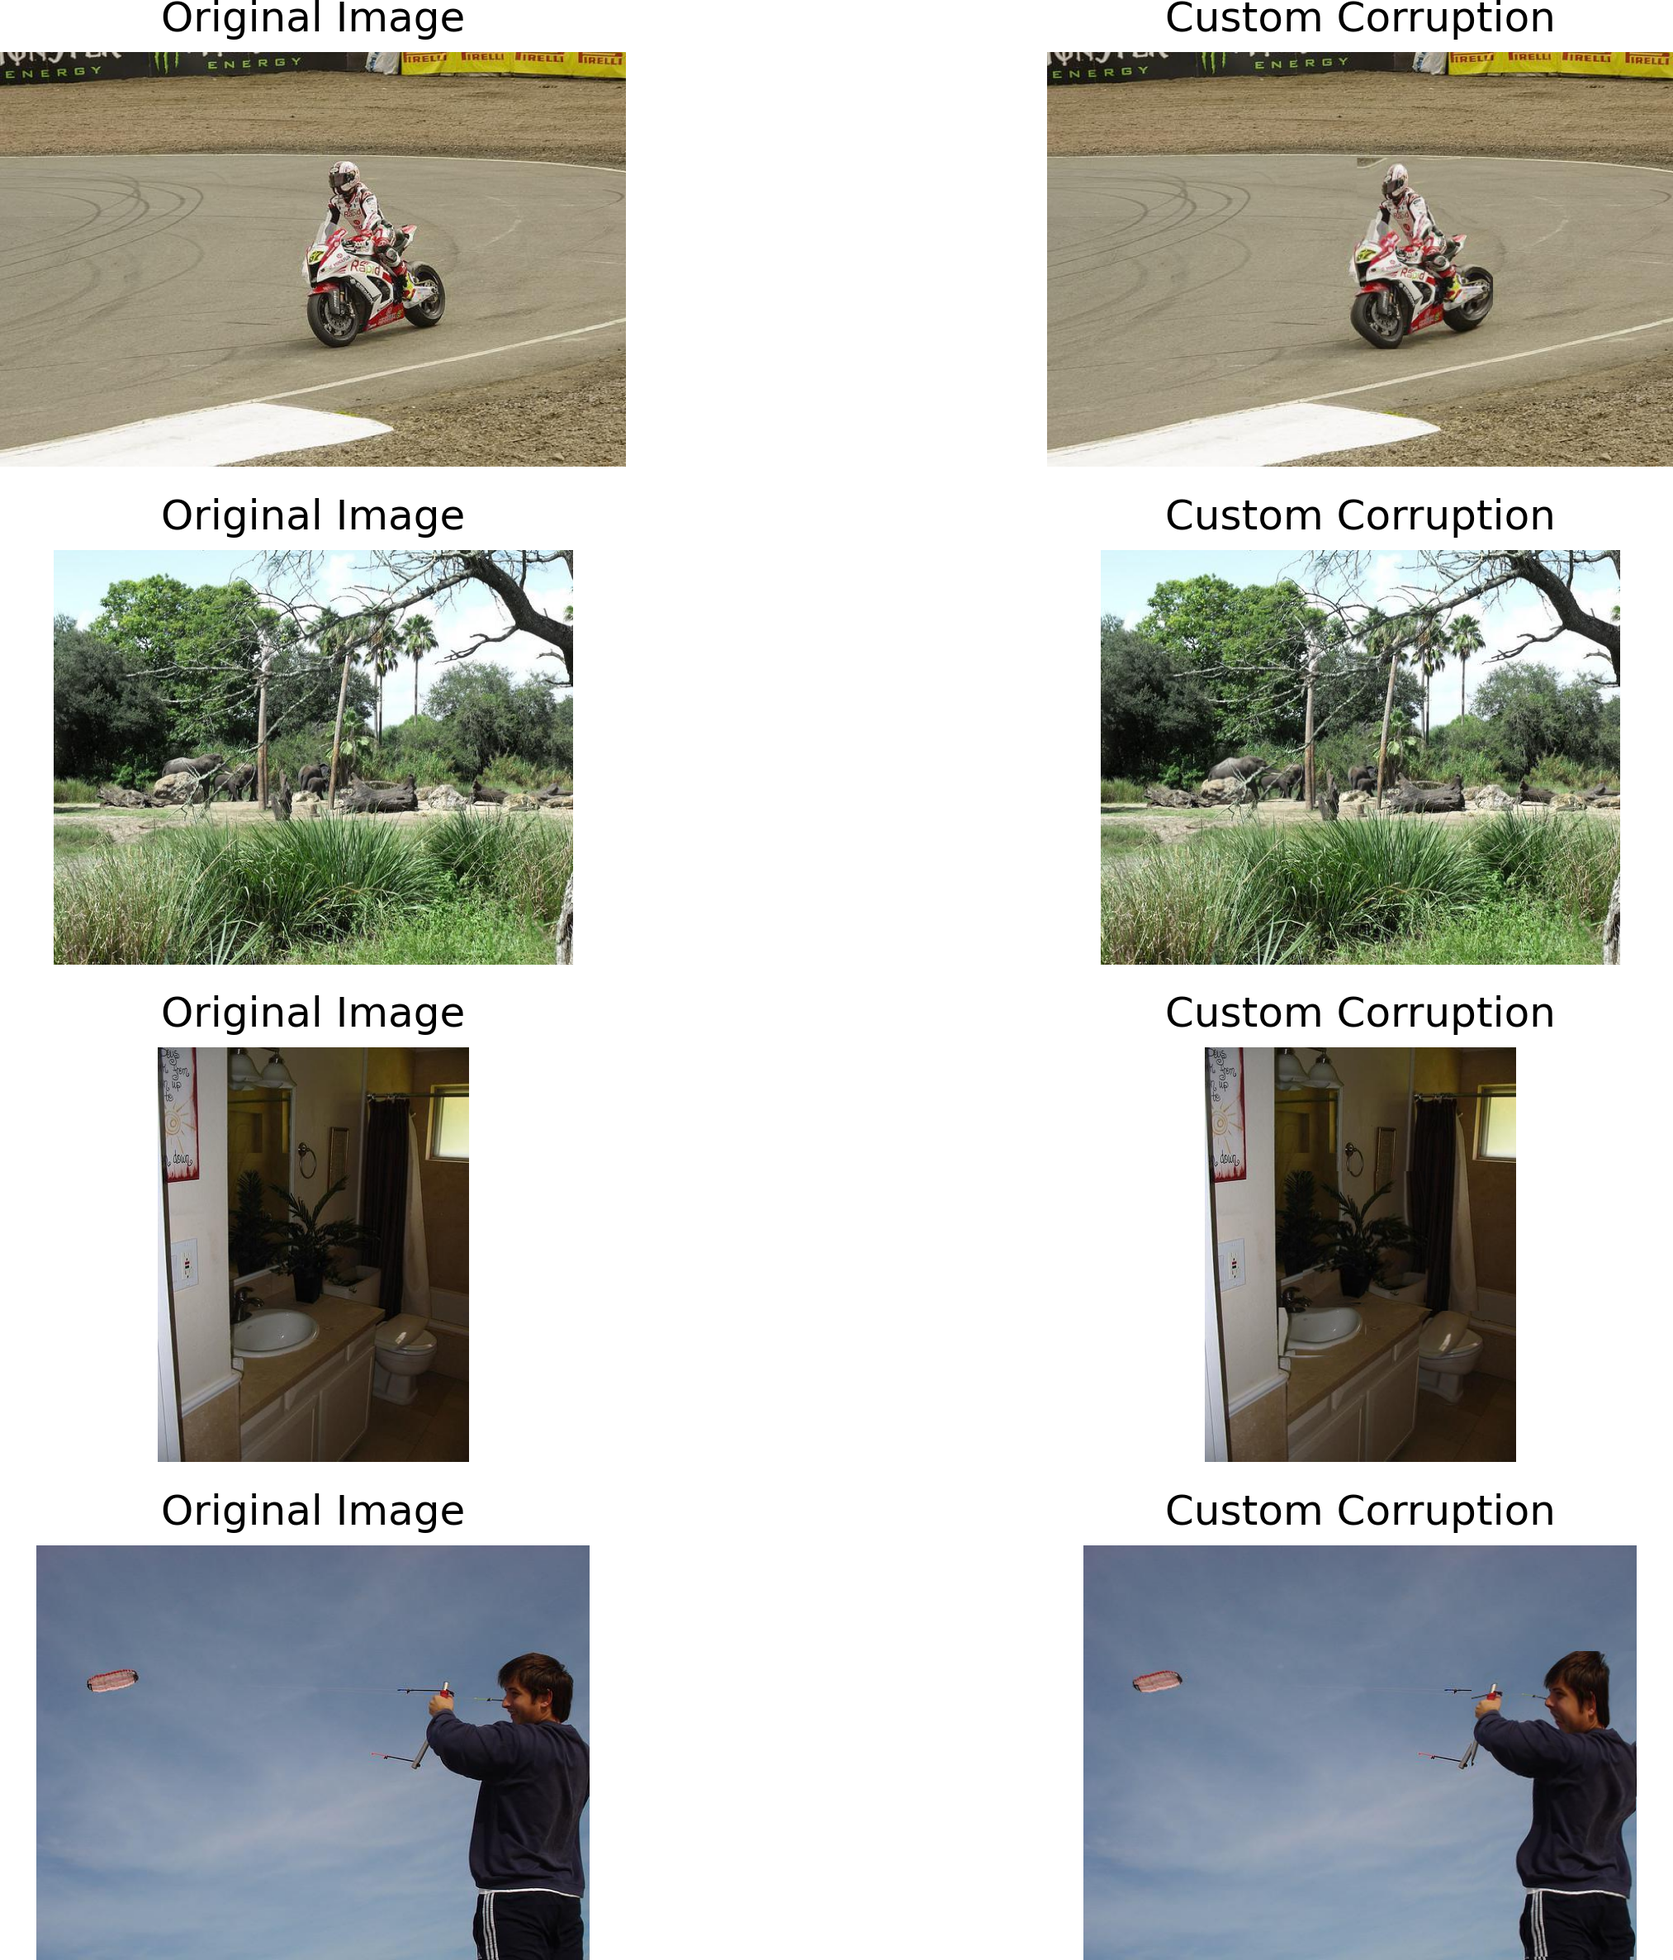
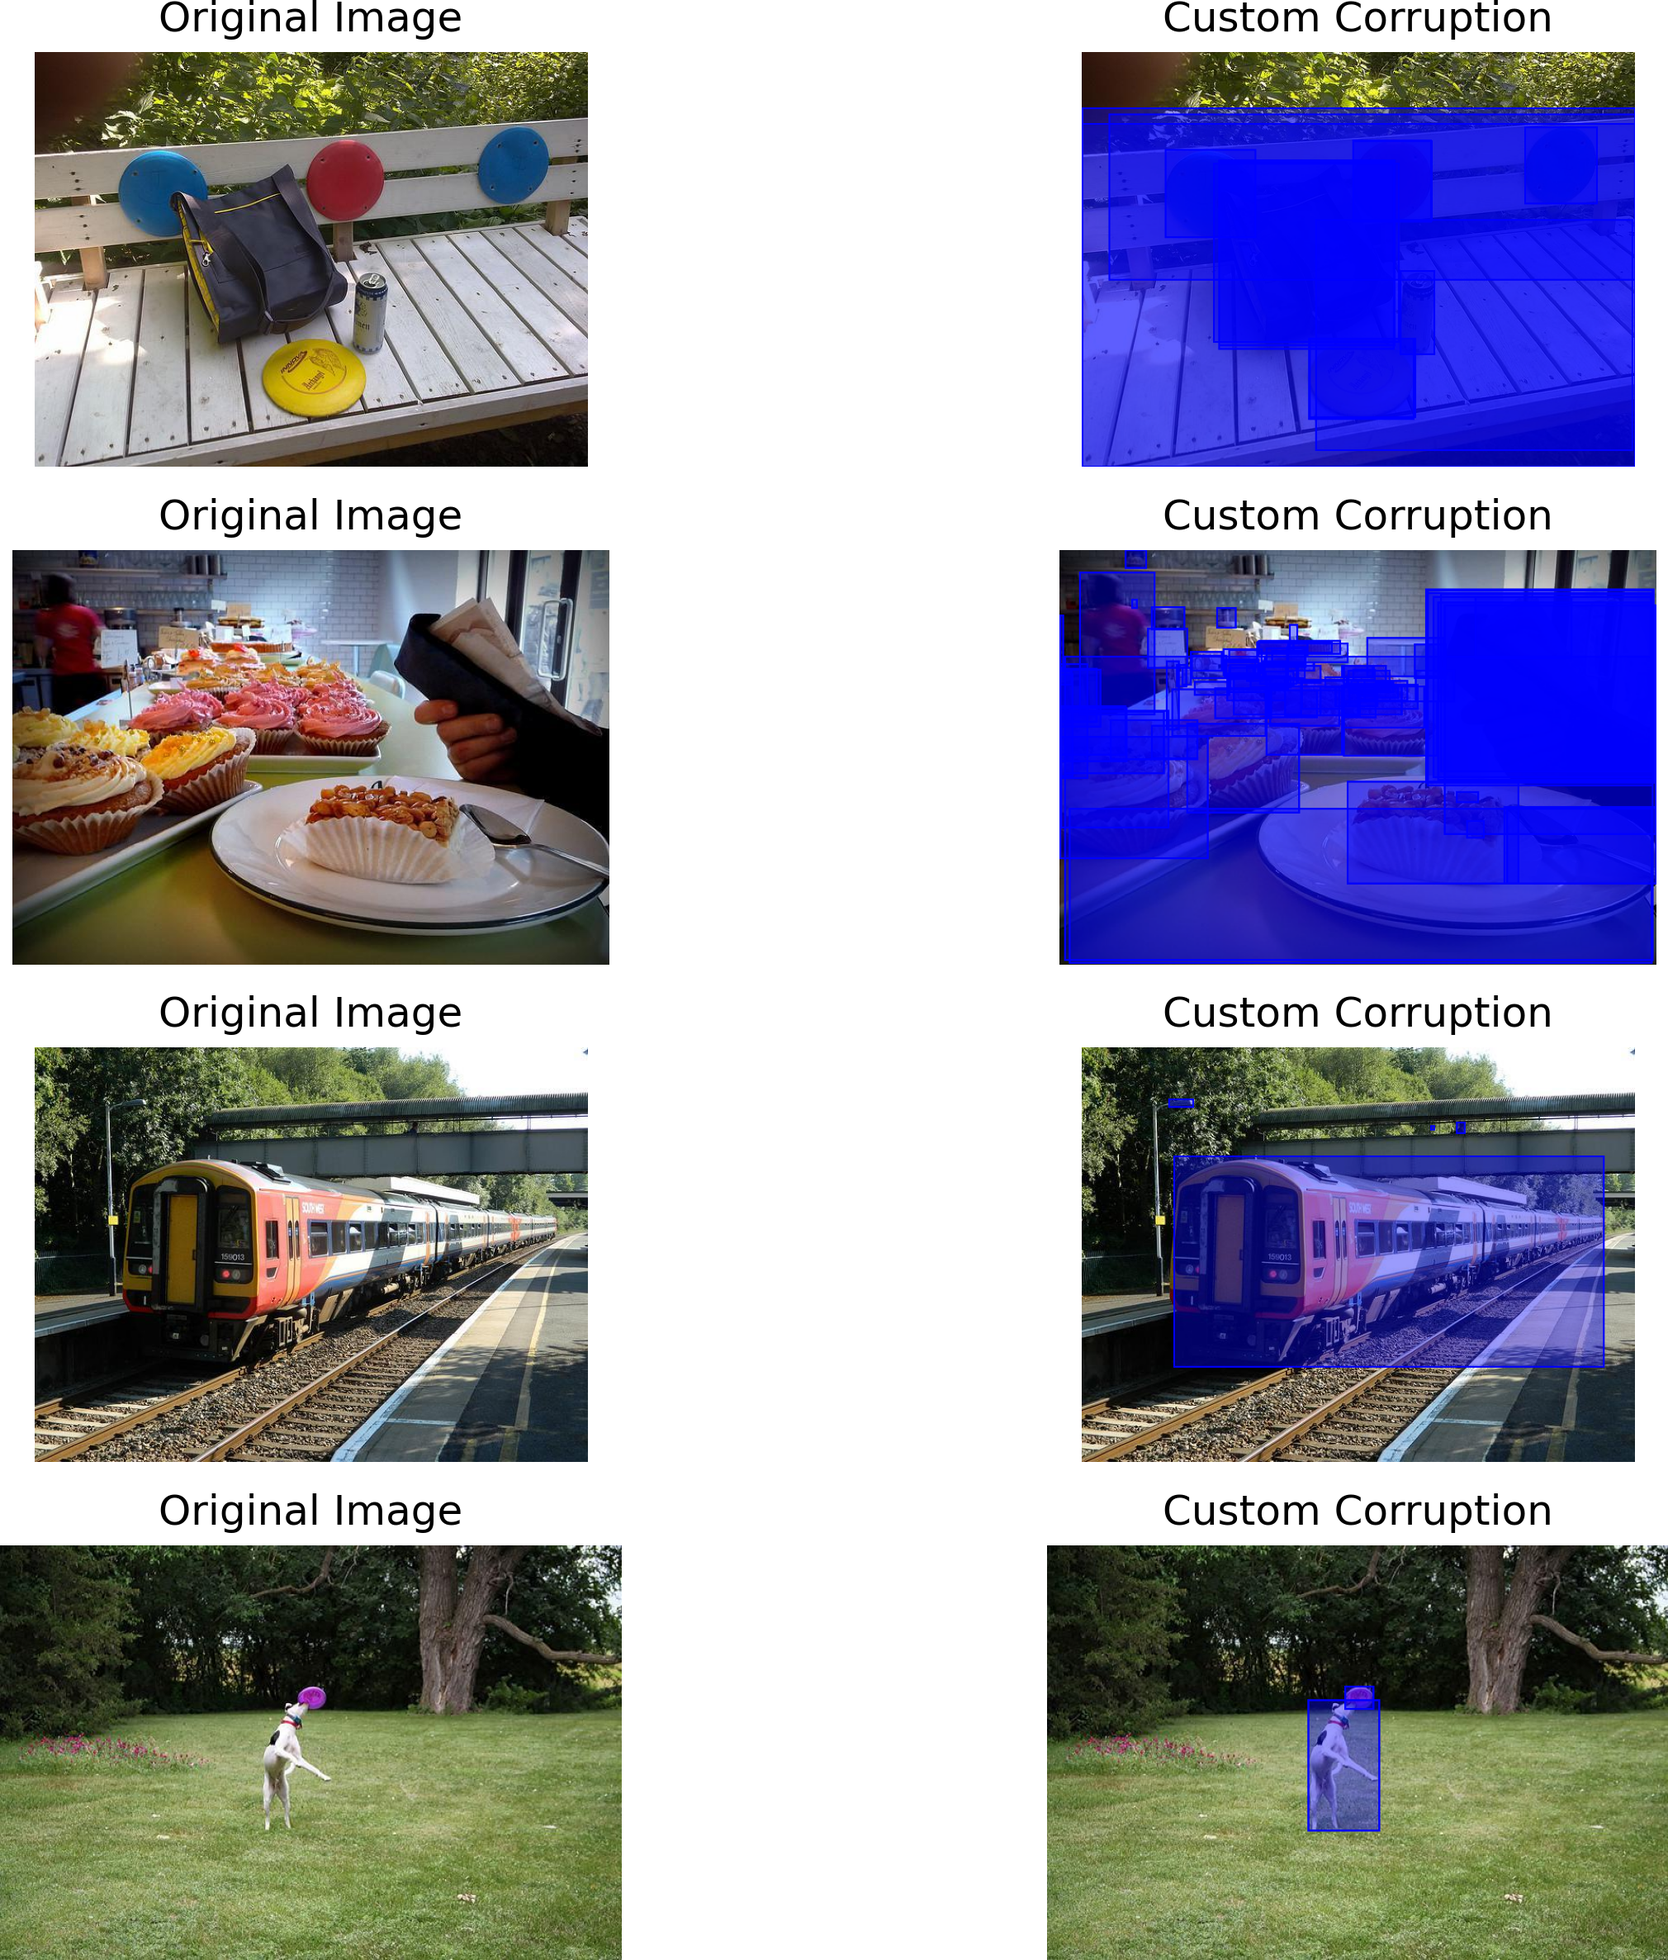
Draw bounding boxes on detected objects

diff --git a/mDPO/misc/neg_img_metric.py b/mDPO/misc/neg_img_metric.py
@@ -1,0 +1,309 @@
+import torch
+import transformers
+from transformers import AutoModelForCausalLM, AutoTokenizer
+from PIL import Image
+import warnings
+from torchvision.models import vit_h_14, ViT_H_14_Weights
+from bunny_utils.util.mm_utils import tokenizer_image_token
+from torchvision.transforms import v2
+from torchvision.transforms.functional import rgb_to_grayscale
+from torchvision import transforms
+import numpy as np
+import matplotlib.pyplot as plt
+import json
+import random
+import torch.nn.functional as F
+from collections import defaultdict
+
+# set device
+device = 'cuda'
+torch.set_default_device(device)
+
+# DEVISE A NEW METRIC THAT SOMEHOW
+# CORRELATES MULTIMODAL LLM PERFORMANCE AND NEGATIVE IMAGE SIMILARITY
+
+# function to create a negative image by 
+# randomly cropping out a portion of the image
+def random_crop(image, low=0.01, high=0.1):
+    resize_cropper = v2.RandomResizedCrop(size=image.size()[-2:], scale=(low, high))
+    image = resize_cropper(image.squeeze(0)).unsqueeze(0)
+    return image
+
+# function to create a negative image
+# which is entirely black
+def black_image(image):
+    return torch.zeros_like(image)
+
+# function to create a negative image by 
+# randomly rotating the image
+def rotate_image(image, low=-40, high=40):
+    rotator = v2.RandomRotation(degrees=(low, high))  # fixed angle
+    return rotator(image.squeeze(0)).unsqueeze(0)
+
+# function to create a negative image by 
+# applying the forward difussion process to the image
+def forward_diffusion(image, step=500):
+    num_steps = 1000  # Number of diffusion steps
+
+    # decide beta in each step
+    betas = torch.linspace(-6, 6, num_steps)
+    betas = torch.sigmoid(betas) * (0.5e-2 - 1e-5) + 1e-5
+
+    # decide alphas in each step
+    alphas = 1 - betas
+    alphas_prod = torch.cumprod(alphas, dim=0)
+    #alphas_prod_p = torch.cat([torch.tensor([1]).float(), alphas_prod[:-1]], 0)  # p for previous
+    alphas_bar_sqrt = torch.sqrt(alphas_prod)
+    #one_minus_alphas_bar_log = torch.log(1 - alphas_prod)
+    one_minus_alphas_bar_sqrt = torch.sqrt(1 - alphas_prod)
+
+    def q_x(x_0, t):
+        noise = torch.randn_like(x_0)
+        alphas_t = alphas_bar_sqrt[t]
+        alphas_1_m_t = one_minus_alphas_bar_sqrt[t]
+        #print(x_0.device, alphas_t.device, alphas_1_m_t.device, noise.device)
+        return (alphas_t * x_0 + alphas_1_m_t * noise)
+
+    #noise_delta = int(step)  # from 0-999
+    noisy_image = image.squeeze(0)
+    image_tensor_cd = q_x(noisy_image, step)
+
+    return image_tensor_cd.unsqueeze(0)
+
+# function to create a negative image by 
+# randomly replacing it with another image
+def replace_with_random_images(images):
+    new_images = []
+    for i, img in enumerate(images):
+        # indices excluding the current one
+        other_indices = list(range(len(images)))
+        other_indices.remove(i)
+
+        # choose a different image
+        rand_idx = random.choice(other_indices)
+        new_images.append(images[rand_idx])
+    return new_images
+
+# function that will return a list of encoder outputs
+# for an image tensor
+def model_encoder_outputs(model, weights, img_tensor):
+    # set model to evaluation mode
+    model.eval()
+
+    # list where encoder outputs will be stored
+    encoder_outputs = []
+
+    # image preprocessor
+    preprocess = weights.transforms()
+
+    # create batch of data
+    batch = preprocess(img_tensor.squeeze().to(device)).unsqueeze(0)
+
+    # forward hook function
+    # this will be called during the forward pass of each encoder layer
+    # that is hooked to this function
+    # module: the Pytorch module to which we will attach this hook function
+    # input: inputs to that module
+    # output: output of the forward pass
+    def save_output(module, input, output):
+        # save the module outputs to the list
+        encoder_outputs.append(output.detach())
+
+    hooks = []
+    # iterate over each encoder layer
+    for layer in model.encoder.layers:
+        # register the function above
+        # as a forward hook
+        hook = layer.register_forward_hook(save_output)
+        # save the hook if we want to remove it later
+        hooks.append(hook)
+
+    # get model outputs
+    _ = model(batch)
+
+    # remove each hook
+    for hook in hooks:
+        hook.remove()
+
+    return encoder_outputs
+
+# function when given two lists of encoder outputs of two different images
+# will calculate the similarity between them
+def similarity(enc_out_1, enc_out_2):
+
+    # list of similarity scores
+    similarities = []
+    for enc1, enc2 in zip(enc_out_1, enc_out_2):
+        # get CLS token of first
+        enc1_cls = enc1.squeeze()[0,:]
+        # get CLS token of second
+        enc2_cls = enc2.squeeze()[0,:]
+
+        # calculate cosine similarity between them
+        cosine_similarity = F.cosine_similarity(enc1_cls, enc2_cls, dim=0)
+        similarities.append(cosine_similarity)
+
+    n = len(enc_out_1)
+    mid = n // 2
+    
+    # lower-layer similarities
+    low_similarities = sum(similarities[:4])/len(similarities[:4])
+    # mid-layer similarities
+    mid_similarities = sum(similarities[mid-2:mid+2])/len(similarities[mid-2:mid+2])
+    # higher-layer similarities
+    high_similarities = sum(similarities[-4:])/len(similarities[-4:])
+
+    return low_similarities, mid_similarities, high_similarities
+
+# function to calculate the average similarity
+# between different images
+def avg(scores):
+    # average of lower layer scores
+    lows = torch.stack([s[0] for s in scores]).mean().item()
+    # average of mid layer scores
+    mids = torch.stack([s[1] for s in scores]).mean().item()
+    # average of higher layer scores
+    highs = torch.stack([s[2] for s in scores]).mean().item()
+    return lows, mids, highs
+
+# object to convert a PIL image into a Pytorch tensor
+to_tensor = transforms.ToTensor()
+# object to convert a Pytorch tensor into a PIL image
+to_pil = transforms.ToPILImage()
+
+# open the training data json file
+with open('./data/vlfeedback_llava_10k.json', 'r') as file:
+    data = json.load(file)
+#print(data[0])
+
+# open the image
+#image = Image.open('./data/test3.png').convert("RGB")
+# open some images from dataset randomly
+images = []
+for sample in random.sample(data, 20):
+    images.append(Image.open('./data/merged_images/' + sample['img_path']).convert("RGB"))
+
+# convert the images to tensors
+image_tensors = [to_tensor(image).to(device) for image in images]
+
+# apply different image corruption techniques
+fd_100_image_tensors = [forward_diffusion(image_tensor, 100) for image_tensor in image_tensors]
+fd_200_image_tensors = [forward_diffusion(image_tensor, 200) for image_tensor in image_tensors]
+rr_40_image_tensors = [rotate_image(image_tensor, -40, 40) for image_tensor in image_tensors]
+rc_1_10_image_tensors = [random_crop(image_tensor, 0.01, 0.1) for image_tensor in image_tensors]
+mdpo_image_tensors = [random_crop(image_tensor, 0.01, 0.2) for image_tensor in image_tensors]
+ri_image_tensors = replace_with_random_images(image_tensors)
+
+# initialize the ViT model
+vit_weights = ViT_H_14_Weights.DEFAULT
+vit_model = vit_h_14(weights=vit_weights)
+
+# dictionary to store similarity scores
+# for different images and different image corruption techniques
+sim_scores = defaultdict(list)
+# gpt-4 evaluation scores for each image corruption
+gpt_scores = {
+    'rc_1_10': 2.98,
+    'rr_40': 2.66,
+    'fd_100': 2.65,
+    'fd_200': 2.55,
+    'ri': 2.71,
+    'mdpo': 2.96}
+# list to store average of lower layer similarities
+low_sim = []
+# list to store average of mid layer similarities
+mid_sim = []
+# list to store average of high layer similarities
+high_sim = []
+# list to store gpt-4 evaluation scores
+gpt_scores_list = []
+
+for i in range(len(image_tensors)):
+    # get the encoder outputs for the original image
+    orig_outputs = model_encoder_outputs(vit_model, vit_weights, image_tensors[i])
+
+    # get the encoder outputs for the corrupted images
+    rc_1_10_outputs = model_encoder_outputs(vit_model, vit_weights, rc_1_10_image_tensors[i])
+    mdpo_outputs = model_encoder_outputs(vit_model, vit_weights, mdpo_image_tensors[i])
+    rr_40_outputs = model_encoder_outputs(vit_model, vit_weights, rr_40_image_tensors[i])
+    fd_100_outputs = model_encoder_outputs(vit_model, vit_weights, fd_100_image_tensors[i])
+    fd_200_outputs = model_encoder_outputs(vit_model, vit_weights, fd_200_image_tensors[i])
+    ri_outputs = model_encoder_outputs(vit_model, vit_weights, ri_image_tensors[i])
+
+    # store the similarity scores for each image
+    sim_scores['rc_1_10'].append(similarity(orig_outputs, rc_1_10_outputs))
+    sim_scores['mdpo'].append(similarity(orig_outputs, mdpo_outputs))
+    sim_scores['rr_40'].append(similarity(orig_outputs, rr_40_outputs))
+    sim_scores['fd_100'].append(similarity(orig_outputs, fd_100_outputs))
+    sim_scores['fd_200'].append(similarity(orig_outputs, fd_200_outputs))
+    sim_scores['ri'].append(similarity(orig_outputs, ri_outputs))
+
+# display the similarity scores for each image corruption
+for corr_type, scores in sim_scores.items():
+    low_avg, mid_avg, high_avg = avg(scores)
+    print(f"Corruption Type: {corr_type:<15} Low-Level: {low_avg:<10.2f} Mid-Level: {mid_avg:<10.2f} High-Level: {high_avg:.2f}")
+
+    low_sim.append(low_avg)
+    mid_sim.append(mid_avg)
+    high_sim.append(high_avg)
+    gpt_scores_list.append(gpt_scores[corr_type])
+
+# figure for the similarity scores and performance
+fig, axes = plt.subplots(1, 3, figsize=(12, 4))
+axes = axes.flatten()
+
+axes[0].scatter(low_sim, gpt_scores_list)
+axes[0].set_title("Low Layer Similarities")
+
+axes[1].scatter(mid_sim, gpt_scores_list)
+axes[1].set_title("Mid Layer Similarities")
+
+axes[2].scatter(high_sim, gpt_scores_list)
+axes[2].set_title("High Layer Similarities")
+
+for i in range(len(axes)):
+    axes[i].set_xlabel("Similarity Scores")
+    axes[i].set_ylabel("GPT-4 Evaluation Scores")
+    axes[i].set_xlim(0,1)
+    axes[i].grid(True)
+
+# save the plots
+plt.savefig(f'./results/perf_sim.png', bbox_inches='tight', pad_inches=0, dpi=300)
+plt.close()
+
+# print(len(orig_outputs), orig_outputs[0].shape, orig_outputs[-1].shape)
+# print(len(rc_outputs), rc_outputs[0].shape, rc_outputs[-1].shape)
+# print(len(black_outputs), black_outputs[0].shape, black_outputs[-1].shape)
+# print(len(rotated_outputs), rotated_outputs[0].shape, rotated_outputs[-1].shape)
+
+# # convert image tensor back back to PIL Image
+# corrupted_images = [to_pil(corrupted_image_tensor.squeeze()) for corrupted_image_tensor in corrupted_image_tensors]
+
+# # no. of columns
+# cols = 2
+# # no. of rows
+# #rows = (len(corrupted_images)*2 // cols) + 1
+# rows = len(corrupted_images)
+
+# # figure for the original image and the corrupted images
+# fig, axes = plt.subplots(rows, cols, figsize=(cols*3, rows*3))
+# axes = axes.flatten()
+
+# for i in range(len(images)):
+#     # plot the original image
+#     axes[i*2].imshow(images[i])
+#     axes[i*2].set_title("Original Image")
+#     axes[i*2].axis('off')
+
+#     # plot the corrupted image
+#     axes[(i*2)+1].imshow(corrupted_images[i])
+#     axes[(i*2)+1].set_title("Corrupted Image")
+#     axes[(i*2)+1].axis('off')
+
+# # # turn off remaining plots
+# # for i in range(len(corrupted_images)+1, len(axes)):
+# #     axes[i].axis('off')
+
+# # save the images
+# plt.savefig(f'./results/neg_img_metric.png', bbox_inches='tight', pad_inches=0, dpi=300)
+# plt.close()

diff --git a/mDPO/bunny/obj_det_corruption.py b/mDPO/bunny/obj_det_corruption.py
@@ -18,6 +18,7 @@ import matplotlib.patches as patches
 from skimage.transform import PiecewiseAffineTransform, warp
 from io import BytesIO
 from torchvision.models.detection import fasterrcnn_resnet50_fpn_v2, FasterRCNN_ResNet50_FPN_V2_Weights
+from torchvision.utils import draw_bounding_boxes
 
 # function to apply elastic warping on an image
 # only on the bounding box part
@@ -46,7 +47,7 @@ def elastic_transform(image, mask, alpha=600, sigma=20):
 # function to perform object detection on an image
 # and return a binary mask which specifies the region
 # where an object is detected
-def object_detection(model, weights, image_tensors):
+def elastic_object_detection(model, weights, image_tensors):
     # initialize the preprocessor
     preprocess = weights.transforms()
 
@@ -92,6 +93,47 @@ def object_detection(model, weights, image_tensors):
 
     return all_masks, predictions
 
+# function to perform object detection on an image
+# and draw the bounding box on the image
+def draw_bounding_box(model, weights, image_tensors):
+    # initialize the preprocessor
+    preprocess = weights.transforms()
+
+    # apply preprocessing to the image
+    batch = [preprocess(image_tensor).to(device) for image_tensor in image_tensors]
+
+    # get the model predictions
+    # each prediction is of the format :-
+    # {'boxes': tensor([[ 50.0912, 179.3047, 852.6385, 732.4894]], grad_fn=<StackBackward0>),
+    # 'labels': tensor([17]),
+    # 'scores': tensor([0.9971], grad_fn=<IndexBackward0>)}
+    predictions = model(batch)
+
+    # images with bounding boxes drawn on them
+    modified_images = []
+    for i in range(len(image_tensors)):
+        # get each image
+        modified_image = image_tensors[i].clone()
+
+        # convert to uint8 in the range [0, 255]
+        if modified_image.max() <= 1:
+            modified_image = (modified_image*255).to(torch.uint8)
+        else:
+            modified_image = modified_image.to(torch.uint8)
+
+        # draw the bounding boxes
+        modified_image = draw_bounding_boxes(
+            modified_image,
+            boxes=predictions[i]['boxes'],
+            colors='blue',
+            fill=True,
+            width=2
+        )
+
+        modified_images.append(modified_image)
+    
+    return modified_images
+
 # object to convert a Pytorch tensor into a PIL image
 to_pil = transforms.ToPILImage()
 
@@ -122,11 +164,12 @@ for sample in random.sample(data, 4):
 # convert the images to tensors
 image_tensors = [to_tensor(image) for image in images]
 
-# get the mask which defines the location of the object
-object_masks, _ = object_detection(frcnn_model, frcnn_weights, image_tensors)
+# # get the mask which defines the location of the object
+# object_masks, _ = object_detection(frcnn_model, frcnn_weights, image_tensors)
 
 # apply custom image corruption only on the bounding box
-custom_corrupted_image_tensors = [elastic_transform(image_tensor, object_mask) for image_tensor, object_mask in zip(image_tensors, object_masks)]
+#custom_corrupted_image_tensors = [elastic_transform(image_tensor, object_mask) for image_tensor, object_mask in zip(image_tensors, object_masks)]
+custom_corrupted_image_tensors = draw_bounding_box(frcnn_model, frcnn_weights, image_tensors)
 
 # convert image tensor back back to PIL Image
 custom_corrupted_images = [to_pil(custom_corrupted_image_tensor.squeeze()) for custom_corrupted_image_tensor in custom_corrupted_image_tensors]
